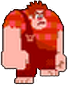
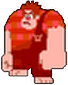
.

diff --git a/src/personajes/Ralph.java b/src/personajes/Ralph.java
@@ -2,10 +2,13 @@ package personajes;
 
 import java.awt.Rectangle;
 
+import modelos.ModeloJuego;
+
 import utils.Direccion;
 import utils.Posicion;
 import utils.Utils;
 import utils.eventos.Evento;
+import utils.eventos.EventoRalphSalta;
 
 /**
  * Modela al personaje Ralph del juego
@@ -19,29 +22,35 @@ public class Ralph extends Chocable {
 	private final REQ RALPH = new REQ(0, 5);
 	private final REQ RALPH_IZQ1 = new REQ(1, 5);
 	private final REQ RALPH_IZQ2 = new REQ(2, 5);
-	private final REQ RALPH_SALTA = new REQ(3, 10);
+	private final REQ RALPH_DER1 = new REQ(3,5);
+	private final REQ RALPH_DER2 = new REQ(4,5);
+	private final REQ RALPH_SALTA = new REQ(5, 10);
 	private int timerAccion = 0;
 	private int movs = 0;
 
 	public Ralph() {
 		super(new Posicion(0, Utils.numPisos), Utils.vRalph, new Rectangle(69, 82));
 		this.ladrillosRestantes = Utils.dificultar(Utils.ladrillosRalph, true);
+		this.ladrillosRestantes = Utils.ladrillosRalph;
 		super.agregarImagen("res/img/ralph/ralph.png");
 		super.agregarImagen("res/img/ralph/ralph_izq1.png");
 		super.agregarImagen("res/img/ralph/ralph_izq2.png");
+		super.agregarImagen("res/img/ralph/ralph_der1.png");
+		super.agregarImagen("res/img/ralph/ralph_der2.png");
 		super.agregarImagen("res/img/ralph/ralph_salta.png");
 	}
 
 	/**
 	 * Actualiza su posici&oacute;n y tira ladrillos
+	 * @throws EventoRalphSalta 
 	 */
 	@Override
-	public void actualizar() {
+	public void actualizar() throws EventoRalphSalta {
 		super.refresh();
 		if (movs > 0) {
 			if (caminar(Direccion.DERECHA)) {
-				super.requests.add(RALPH_IZQ1);
-				super.requests.add(RALPH_IZQ2);
+				super.requests.add(RALPH_DER1);
+				super.requests.add(RALPH_DER2);
 				movs--;
 			} else {
 				super.requests.removeAll(requests);
@@ -59,7 +68,7 @@ public class Ralph extends Chocable {
 		} else {
 			super.requests.clear();
 			if (timerAccion == 0) {
-				if (Utils.randomBoolean(50)) {
+				if (Utils.randomBoolean(100-Utils.probTirar)) {
 					movs = Math.min(Utils.RANDOM.nextInt(Utils.cellWidth), 30);
 					if (Utils.randomBoolean(50)) {
 						movs *= -1;
@@ -67,9 +76,12 @@ public class Ralph extends Chocable {
 				} else {
 					// super.setBaseImage("res/img/ralph/ralph.png");
 					if (Utils.randomBoolean(Utils.dificultar(Utils.probTirar, true))) {
-						saltar();
-						super.requests.add(RALPH_SALTA);
-						timerAccion = 50;
+						try{
+							throw new EventoRalphSalta(saltar());
+						}finally{
+							super.requests.add(RALPH_SALTA);
+							timerAccion = 50;
+						}
 					}
 				}
 				timerAccion = 50;
@@ -86,7 +98,6 @@ public class Ralph extends Chocable {
 		if (ladrillosRestantes > 0) {
 			int ladrillos = Utils.RANDOM.nextInt(Math.min(ladrillosRestantes, 3)) + 1;
 			ladrillosRestantes -= ladrillos;
-			
 			return ladrillos;
 		}
 		return 0;

diff --git a/src/modelos/ModeloJuego.java b/src/modelos/ModeloJuego.java
@@ -2,11 +2,13 @@ package modelos;
 
 import java.util.HashSet;
 import java.util.Iterator;
+import java.util.ListIterator;
 import java.util.Set;
 
 import control.Highscore;
 import personajes.Chocable;
 import personajes.Felix;
+import personajes.Ladrillo;
 import personajes.Pajaro;
 import personajes.Pastel;
 import personajes.Ralph;
@@ -17,6 +19,7 @@ import utils.Utils;
 import utils.eventos.EventoJuegoTerminado;
 import utils.eventos.EventoNivelGanado;
 import utils.eventos.EventoOffScreen;
+import utils.eventos.EventoRalphSalta;
 import utils.eventos.EventoSeccionGanada;
 
 /**
@@ -34,12 +37,13 @@ public class ModeloJuego extends Modelo {
 	private int puntaje = 0;
 	/** Lista de objetos de car&acute;cter actualizable */
 	private Set<Chocable> chocables = new HashSet<>();
+	//private ArrayList<Chocable> chocables = new ArrayList<Chocable>();
 
 	/** Nivel */
 	private Nivel nivel = null;
 	
 	private ModeloJuego() {
-		nivel = new Nivel(0);
+		nivel = new Nivel(1);
 	}
 	
 	public void init() {
@@ -103,6 +107,7 @@ public class ModeloJuego extends Modelo {
 	}
 
 	// tira termina juego
+	@SuppressWarnings("unchecked")
 	@Override
 	public void actualizar() throws EventoNivelGanado, EventoSeccionGanada, EventoJuegoTerminado {
 		try {
@@ -126,7 +131,9 @@ public class ModeloJuego extends Modelo {
 			}
 			throw e;
 		}
-		for (Iterator<Chocable> iterator = chocables.iterator(); iterator.hasNext();) {
+		Set<Chocable> paraAgregar = new HashSet<Chocable>();
+		Iterator<Chocable> iterator = chocables.iterator();
+		while(iterator.hasNext()) {
 			Chocable chocable = iterator.next();
 			try {
 				if (chocable != null) {
@@ -139,8 +146,14 @@ public class ModeloJuego extends Modelo {
 				throw e;
 			} catch (EventoOffScreen e) {
 				iterator.remove();
+			} catch (EventoRalphSalta e) {
+				Integer ladrillos = (Integer) e.getParam();
+				while (ladrillos-- > 0) {
+					paraAgregar.add(new Ladrillo(new Posicion(ralph.getPos().getX(), 2)));
+				}
 			}
 		}
+		chocables.addAll(paraAgregar);
 		if (Utils.randomBoolean(Utils.probPastel) && nivel.getSeccion().puedoPastel()) {
 			int x = Utils.RANDOM.nextInt(Utils.numCols);
 			int y = Utils.RANDOM.nextInt(Utils.numPisos);
@@ -163,7 +176,7 @@ public class ModeloJuego extends Modelo {
 	}
 	
 	public void setNivel(int n) {
-		this.nivel.setNivel(n);
+		this.nivel = new Nivel(n);
 	}
 	
 	public Ventana[][][] getMapas() {

diff --git a/src/personajes/Chocable.java b/src/personajes/Chocable.java
@@ -2,7 +2,9 @@ package personajes;
 
 import java.awt.Graphics;
 import java.awt.Image;
+import java.awt.Insets;
 import java.awt.Rectangle;
+import java.awt.image.BufferedImage;
 import java.util.ArrayList;
 import java.util.LinkedList;
 import java.util.Queue;
@@ -20,15 +22,13 @@ import utils.eventos.EventoOffScreen;
  */
 public abstract class Chocable implements Actualizable {
 	protected Posicion pos;
-	protected int subPosX = 0;
-	protected int subPosY = 0;
 	private final Rectangle size;
 	private int velocidad;
 	private int timerImagen = 0;
 
-	protected ArrayList<Image> imagenes = new ArrayList<>();
+	protected ArrayList<BufferedImage> imagenes = new ArrayList<>();
 	protected Queue<REQ> requests = new LinkedList<REQ>();
-	private int imagenActual = 0;
+	protected int imagenActual = 0;
 
 	public Chocable(Posicion pos, Rectangle size) {
 		this(pos, 0, size);
@@ -76,7 +76,12 @@ public abstract class Chocable implements Actualizable {
 	public Image getImage() {
 		return imagenes.get(imagenActual);
 	}
-
+	public Insets getMargenes(){
+		int top = (Utils.cellHeight-imagenes.get(imagenActual).getHeight())/2;
+		int left = (Utils.cellWidth-imagenes.get(imagenActual).getWidth())/2;
+		return new Insets(top,left,0,0);
+	}
+	
 	protected boolean estaChocando(Chocable c) {
 		return size.intersects(c.size);
 	}
@@ -98,7 +103,7 @@ public abstract class Chocable implements Actualizable {
 	}
 	public void paintComponent(Graphics g) {
 		Posicion posGrafica = pos.inPx();
-		g.drawImage(getImage(), posGrafica.getX(), posGrafica.getY(), null);
+		g.drawImage(getImage(), posGrafica.getX()+this.getMargenes().left, posGrafica.getY()+this.getMargenes().top, null);
 	}
 	
 	protected class REQ {

diff --git a/src/utils/Loader.java b/src/utils/Loader.java
@@ -4,6 +4,7 @@ import java.awt.Font;
 import java.awt.FontFormatException;
 import java.awt.GraphicsEnvironment;
 import java.awt.Image;
+import java.awt.image.BufferedImage;
 import java.io.File;
 import java.io.IOException;
 import java.util.HashMap;
@@ -12,9 +13,9 @@ import javax.imageio.ImageIO;
 
 public class Loader {
 	private static Font font = null;
-	private static Image fondo = null;
-	private static Image reglas = null;
-	private static HashMap<String, Image> imagenes = new HashMap<>();
+	private static BufferedImage fondo = null;
+	private static BufferedImage reglas = null;
+	private static HashMap<String, BufferedImage> imagenes = new HashMap<>();
 	
 //	public static Font getFont(int size) {
 //		if (font == null) {
@@ -39,7 +40,7 @@ public class Loader {
 		return null;
 	}
 	
-	public static Image getFondo() {
+	public static BufferedImage getFondo() {
 		if (fondo == null) {
 			File file = new File("res/ui/fondo.png");
 			try {
@@ -51,7 +52,7 @@ public class Loader {
 		return fondo;
 	}
 
-	public static Image getReglas() {
+	public static BufferedImage getReglas() {
 		if (reglas == null) {
 			File file = new File("res/ui/instrucciones.png");
 			try {
@@ -63,7 +64,7 @@ public class Loader {
 		return reglas;
 	}
 	
-	public static Image getImage(String ruta) {
+	public static BufferedImage getImage(String ruta) {
 		if (!imagenes.containsKey(ruta)) {
 			File file = new File(ruta);
 			try {

diff --git a/src/view/ViewJuego.java b/src/view/ViewJuego.java
@@ -22,7 +22,7 @@ public class ViewJuego extends View implements Actualizable {
 	private Ventana[][][] mapas;
 	private int offset = 0;
 	private int visualOffset = 0;
-	private Image edificio = Loader.getImage("res/img/edificio/edificio.png");
+	private BufferedImage edificio = Loader.getImage("res/img/edificio/edificio.png");
 
 	public ViewJuego(ModeloJuego modelo) {
 		super(modelo);
@@ -61,16 +61,13 @@ public class ViewJuego extends View implements Actualizable {
 				g.drawImage(c.getImage(), x, y, null);*/
 			}
 		}
-		// puntos vidas y nivel
+		// puntos vidas y nivel		
 		g.setColor(Color.BLACK);
 		g.fillRect(0, 0, 360, 50);
-	}
-
-	@SuppressWarnings("unused")
-	private Posicion inPx(Posicion pos, int oWidth, int oHeight) {
-		int x = pos.getX();
-		int y = pos.getY();
-		return new Posicion(242 + 30 + 50 * x, 640 - 78 - 100 * y);
+		g.setFont(Loader.getFont(12));
+		g.setColor(Color.WHITE);
+		g.drawString("vidas*"+ModeloJuego.getInstancia().getFelix().getVidas(), 10, 30);
+		g.drawString("puntos*"+ModeloJuego.getInstancia().getPuntaje(), 200, 30);
 	}
 
 	@Override

diff --git a/src/controller/ControllerJuego.java b/src/controller/ControllerJuego.java
@@ -15,6 +15,7 @@ import control.WreckItRalph;
 import utils.Direccion;
 import utils.Utils;
 import utils.eventos.EventoOffScreen;
+import utils.eventos.EventoRalphSalta;
 import utils.eventos.EventoSeccionGanada;
 import utils.eventos.EventoJuegoTerminado;
 import utils.eventos.EventoNivelGanado;
@@ -78,6 +79,8 @@ public class ControllerJuego extends Controller implements ActionListener {
 		} catch (EventoJuegoTerminado e) {
 			this.terminarJuego();
 		} catch (EventoOffScreen e) {
+			e.printStackTrace();
+		} catch (EventoRalphSalta e) {
 			e.printStackTrace();
 		}
 	}

diff --git a/src/utils/Actualizable.java b/src/utils/Actualizable.java
@@ -3,9 +3,10 @@ package utils;
 import utils.eventos.EventoJuegoTerminado;
 import utils.eventos.EventoNivelGanado;
 import utils.eventos.EventoOffScreen;
+import utils.eventos.EventoRalphSalta;
 import utils.eventos.EventoSeccionGanada;
 
 public interface Actualizable {
-	public abstract void actualizar() throws EventoOffScreen, EventoNivelGanado, EventoSeccionGanada, EventoJuegoTerminado;
+	public abstract void actualizar() throws EventoOffScreen, EventoNivelGanado, EventoSeccionGanada, EventoJuegoTerminado, EventoRalphSalta;
 
 }

diff --git a/src/personajes/Felix.java b/src/personajes/Felix.java
@@ -1,5 +1,6 @@
 package personajes;
 
+import java.awt.Insets;
 import java.awt.Rectangle;
 
 import utils.Direccion;
@@ -53,6 +54,12 @@ public class Felix extends Chocable {
 			requests.add(FELIX_DER);
 		}
 		pos.go(dir);
+	}
+
+	@Override
+	public Insets getMargenes(){
+		if(super.imagenActual==3) return new Insets(-5,15,0,0);
+		return super.getMargenes();
 	}
 
 	/**
@@ -147,6 +154,9 @@ public class Felix extends Chocable {
 				requests.add(FELIX_COME);
 			}
 		}
+	}
+	public int getVidas(){
+		return vidas;
 	}
 
 }

diff --git a/src/personajes/Ladrillo.java b/src/personajes/Ladrillo.java
@@ -19,7 +19,7 @@ public class Ladrillo extends Chocable {
 		super(pos, Utils.dificultar(Utils.vLadrillo, true), new Rectangle(19, 13));
 		super.agregarImagen("res/img/rocas/ladrillo1.png");
 		super.agregarImagen("res/img/rocas/ladrillo2.png");
-		super.subPosX = Utils.RANDOM.nextInt(21) - 10;
+		super.pos.setSubX(Utils.RANDOM.nextInt(21) - 10);
 	}
 
 	/**

diff --git a/src/modelos/Ventana.java b/src/modelos/Ventana.java
@@ -214,7 +214,7 @@ public class Ventana implements Actualizable {
 			url = Utils.urlPuerta(roto);
 			break;
 		case SEMICIRCULAR:
-			url = "res/img/semicirculares/semicircular.png";
+			url = Utils.urlSemicirc(roto);
 			break;
 		default:
 			url = Utils.urlPuerta(roto);

diff --git a/src/utils/Utils.java b/src/utils/Utils.java
@@ -135,4 +135,11 @@ public class Utils {
 		return BASE_IMG + "semicirculares/puerta_roto" + i + ".png";
 	}
 
+	public static String urlSemicirc(int roto) {
+		if(roto>2){
+			roto = 2;
+		}
+		return BASE_IMG + "semicirculares/semicircular_roto" + roto + ".png";
+	}
+
 }

diff --git a/src/utils/eventos/EventoRalphSalta.java b/src/utils/eventos/EventoRalphSalta.java
@@ -1,0 +1,13 @@
+package utils.eventos;
+
+public class EventoRalphSalta extends Evento{
+
+	/**
+	 * 
+	 */
+	private static final long serialVersionUID = -7059103383196996360L;
+	
+	public EventoRalphSalta(Integer param){
+		super(param);
+	}
+}
